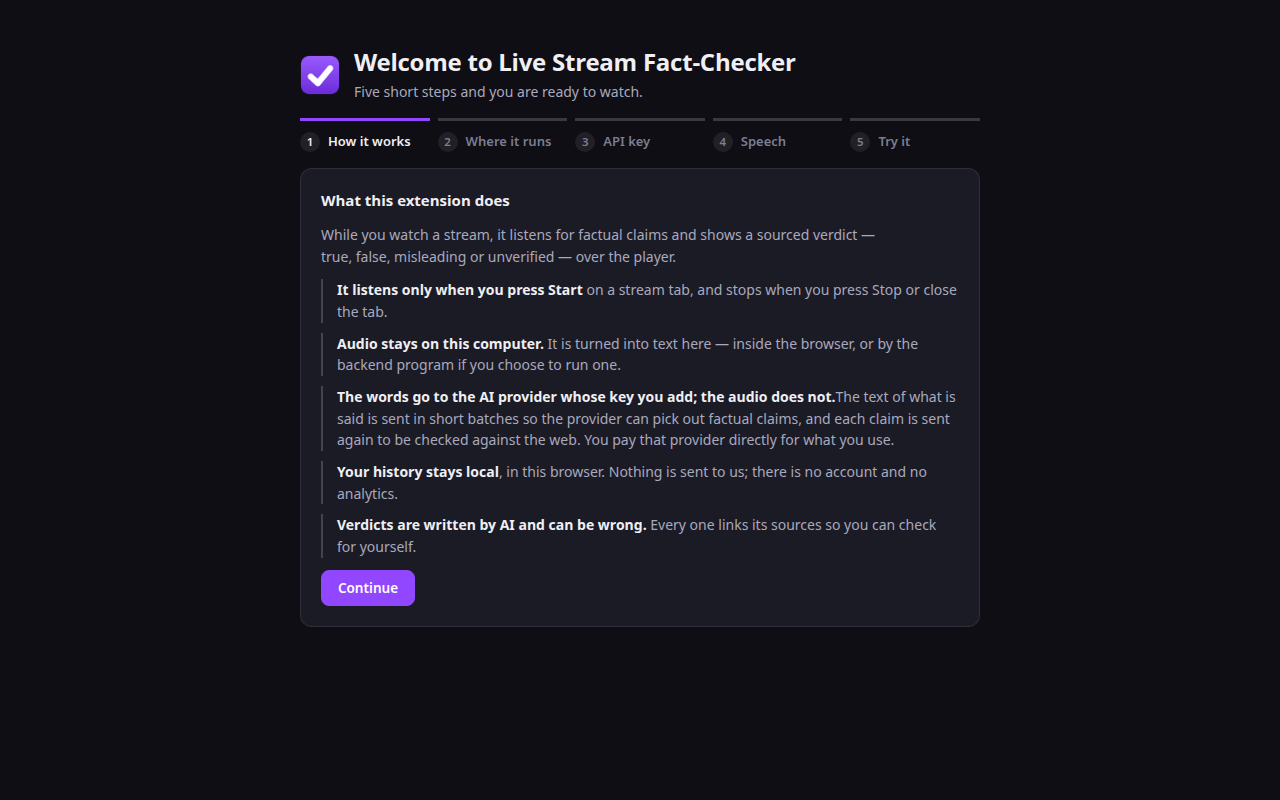
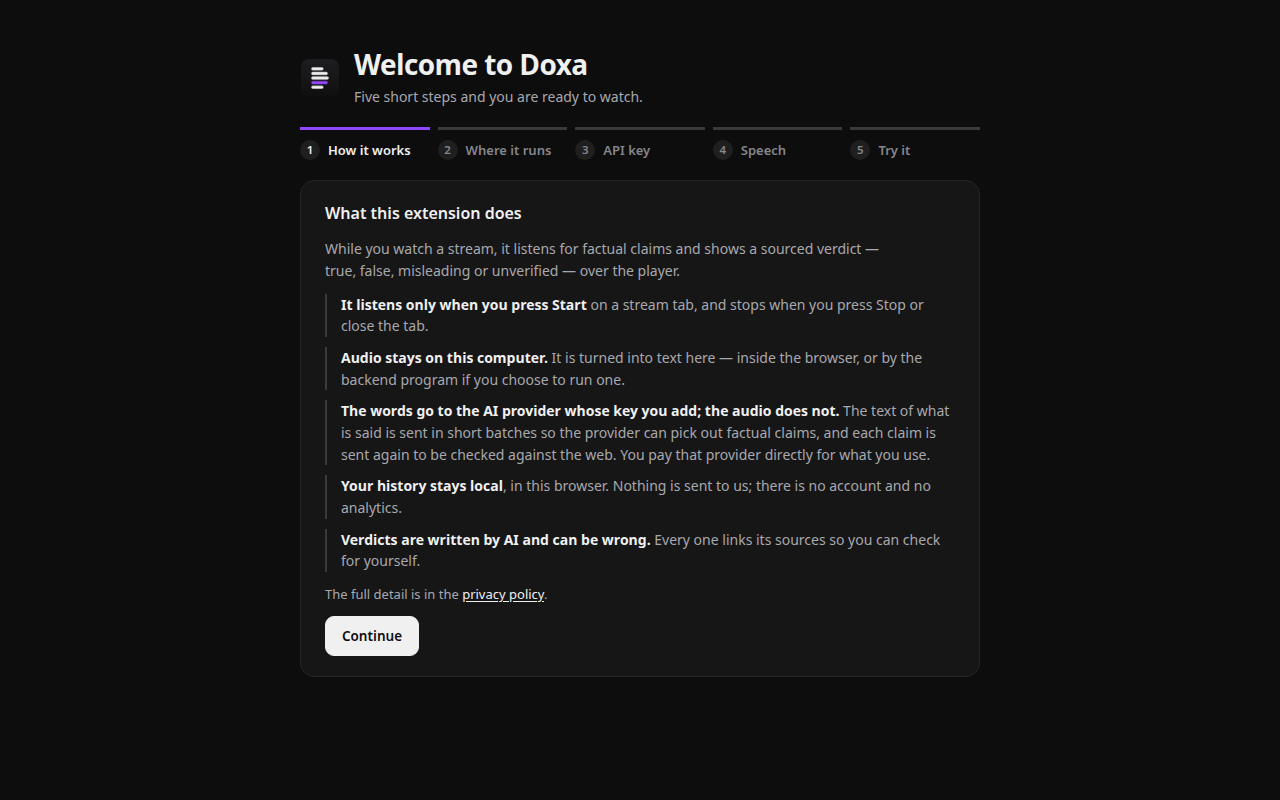
Phase 7: name the product Doxa in docs, backend and store files
- README: Doxa title; the intro and quickstart start with the extension on its
  own, and the local backend becomes an optional section.
- Privacy policy, store listing and checklist say Doxa. The listing describes
  OpenAI and Gemini as a preview, and the alarms justification covers releasing
  the speech model after the warm period.
- Backend: API and streamer titles, start-up banner, analytics, console and
  overlay pages, and the OpenRouter app title say Doxa.
- Store package is dist/doxa-chrome-<version>.zip; history exports are named
  doxa-history-*. The export's format field is unchanged.
- Store images regenerated; the promo tile uses the mark and the doxa wordmark.
- Welcome flow: two missing spaces after inline tags fixed.
- Release plan: Phase 7 built except the Edge run (Edge not installed).

Changed region(s): [[0.2188, 0.0625, 0.75, 0.8438], [0.5625, 0.125, 0.75, 0.2188]]

diff --git a/backend/app/static/dashboard.html b/backend/app/static/dashboard.html
@@ -4,7 +4,7 @@
 <meta charset="utf-8">
 <meta name="viewport" content="width=device-width, initial-scale=1">
 <meta name="color-scheme" content="light dark">
-<title>Fact-Checker Analytics</title>
+<title>Doxa analytics</title>
 <style>
   /* Tokens (dataviz reference palette): light on :root, dark via media query.
      Served locally same-origin by FastAPI — no external assets. */
@@ -187,7 +187,7 @@
 </head>
 <body>
 <header>
-  <h1>Fact-Checker Analytics</h1>
+  <h1>Doxa analytics</h1>
   <span id="refreshed"></span>
 </header>
 <div id="error-banner"></div>

diff --git a/extension/content/overlay.js b/extension/content/overlay.js
@@ -470,7 +470,7 @@ class FactCheckOverlay {
     const fatal = Boolean(errorFrame.fatal);
     const text = fatal
       ? `Fact-checking stopped: ${friendlyCopy ?? fallbackCopy}`
-      : friendlyCopy ?? `Fact-checker: ${fallbackCopy}`;
+      : friendlyCopy ?? `Doxa: ${fallbackCopy}`;
     const notice = this.#refs.notice;
     notice.textContent = text;
     if (fatal) {

diff --git a/backend/streamer/static/console.html b/backend/streamer/static/console.html
@@ -19,7 +19,7 @@
 <head>
 <meta charset="utf-8">
 <meta name="viewport" content="width=device-width, initial-scale=1">
-<title>Fact-Checker</title>
+<title>Doxa streamer console</title>
 <link rel="stylesheet" href="/static/css/fonts.css">
 <link rel="stylesheet" href="/static/css/nocturne.css">
 <link rel="stylesheet" href="/static/css/app.css">

diff --git a/backend/streamer/static/overlay.html b/backend/streamer/static/overlay.html
@@ -28,7 +28,7 @@
 <html lang="en">
 <head>
 <meta charset="utf-8">
-<title>Fact-check overlay</title>
+<title>Doxa overlay</title>
 <link rel="stylesheet" href="/static/css/fonts.css">
 <link rel="stylesheet" href="/static/css/overlay.css">
 <script type="importmap">

diff --git a/scripts/build_extension.py b/scripts/build_extension.py
@@ -7,7 +7,7 @@ local backend's addresses granted up front. A store package needs something
 cleaner, so this script derives the store manifest from it, copies the files
 a release needs, checks the result, and zips it.
 
-    dist/chrome/     + dist/live-stream-fact-checker-chrome-<version>.zip
+    dist/chrome/     + dist/doxa-chrome-<version>.zip
 
 What changes in the store manifest:
 
@@ -51,7 +51,7 @@ from typing import Any
 REPO_ROOT = Path(__file__).resolve().parent.parent
 EXTENSION_DIR = REPO_ROOT / "extension"
 DEFAULT_OUT_DIR = REPO_ROOT / "dist"
-PACKAGE_STEM = "live-stream-fact-checker"
+PACKAGE_STEM = "doxa"
 #: The package directory under ``dist/`` and the browser in the zip's name.
 #: One package serves every Chromium browser.
 PACKAGE_TARGET = "chrome"

diff --git a/backend/app/main.py b/backend/app/main.py
@@ -176,7 +176,7 @@ async def lifespan(app: FastAPI) -> AsyncIterator[None]:
     ]
     logger.info(
         "\n%s",
-        banner(rows, f"Live Stream Fact-Checker backend {SERVER_VERSION}"),
+        banner(rows, f"Doxa backend {SERVER_VERSION}"),
     )
     if not configured:
         logger.warning(
@@ -220,7 +220,7 @@ async def lifespan(app: FastAPI) -> AsyncIterator[None]:
 def create_app() -> FastAPI:
     """Assemble the FastAPI application (factory keeps tests self-contained)."""
     app = FastAPI(
-        title="Twitch Live Fact-Checker",
+        title="Doxa backend",
         version=SERVER_VERSION,
         lifespan=lifespan,
     )

diff --git a/backend/app/llm_openrouter.py b/backend/app/llm_openrouter.py
@@ -103,7 +103,7 @@ OPENROUTER_BASE_URL = "https://openrouter.ai/api/v1"
 # client instead of per-call extra_headers.
 ATTRIBUTION_HEADERS: dict[str, str] = {
     "HTTP-Referer": "https://github.com/local/twitch-fact-checker",
-    "X-OpenRouter-Title": "Twitch Fact-Checker",
+    "X-OpenRouter-Title": "Doxa",
 }
 
 CONNECT_TIMEOUT_S = 3.0

diff --git a/backend/streamer/main.py b/backend/streamer/main.py
@@ -225,7 +225,7 @@ async def _token_refresh_loop(app: FastAPI) -> None:
 
 def create_app() -> FastAPI:
     application = FastAPI(
-        title="Live Stream Fact-Checker — streamer",
+        title="Doxa streamer backend",
         version=STREAMER_VERSION,
         lifespan=lifespan,
     )

diff --git a/backend/app/__init__.py b/backend/app/__init__.py
@@ -1,1 +1,1 @@
-"""Twitch Live Fact-Checker backend package."""
+"""Doxa backend package: the optional local engine for the Doxa extension."""

diff --git a/README.md b/README.md
@@ -1,81 +1,100 @@
-# Live Stream Fact-Checker
+# Doxa
 
-A Chrome extension (Manifest V3, named **"Live Stream Fact-Checker"**) plus a local
-Python backend that fact-checks a live stream in real time. Supported sites: **Twitch,
-YouTube (watch pages and live), Kick, and Rumble**. The extension captures the tab's
-audio and streams it to a local FastAPI server, which transcribes it (with
-`faster-whisper`, or NVIDIA Parakeet on a GPU), extracts verifiable claims with an
-LLM "claim gate", verifies them with a web-search-grounded LLM call, and pushes
-**TRUE / FALSE / MISLEADING / UNVERIFIED** verdicts (with sources) back to a
-Shadow-DOM overlay rendered over the player.
+**Doxa** fact-checks a live stream while you watch it. It is a Chrome extension
+(Manifest V3; Chrome, Edge and other Chromium browsers) for **Twitch, YouTube (watch
+pages and live), Kick, and Rumble**: it listens to the stream tab, picks out checkable
+claims, checks each one against the web, and shows **TRUE / FALSE / MISLEADING /
+UNVERIFIED** verdicts, with sources, in a Shadow-DOM overlay over the player.
 
-The LLM layer runs on the **Anthropic API** by default (Claude Haiku 5.5, with
-Anthropic's own `web_search` tool for grounding — sign in with `ant auth login`, no key
-needed), or on **OpenRouter** (one key, any model, the `web` search plugin); the claim
-gate can optionally run on a local **Ollama** model. Connect a provider in the
-extension's app, which opens in a new tab when you install it — no file editing
-needed.
+By default everything runs inside the extension ("This browser"): speech is turned
+into text by a model on your own computer, and claims are found and checked by the AI
+provider whose API key you add (OpenRouter or Anthropic; OpenAI and Google Gemini are
+offered as a preview). An optional **local backend** (Python, FastAPI) does the same
+work on your machine with extra features: transcription with `faster-whisper` or
+NVIDIA Parakeet on a GPU, the **Anthropic API** by default (Claude Haiku 5.5 with
+Anthropic's own `web_search` tool — sign in with `ant auth login`, no key needed) or
+**OpenRouter**, an optional local **Ollama** model for claim detection, contradiction
+alerts and a streamer mode. Either way you connect a provider in the extension's app,
+which opens in a new tab when you install it — no file editing needed.
 
 ## Quickstart
 
-1. **Start the backend.** Only needed for the extension's "local backend" mode; with
-   "This browser" (the default for a new install) there is nothing to start.
-
-   Without cloning anything, with [uv](https://docs.astral.sh/uv/) installed:
+1. **Load the extension** in Chrome 116+ or another Chromium browser (Edge, Brave).
+   From a copy of the project, first fetch the in-browser speech runtime once:
 
    ```bash
-   uvx --from 'git+https://github.com/aajayi-21/Twitch-Fact-Checker#subdirectory=backend' doxa
+   python scripts/vendor_stt_runtime.py
    ```
 
-   This installs no speech engine, so the extension transcribes in the browser and sends
-   the backend text. To transcribe on this computer instead, install the `stt` extra
-   (adds about 200 MB; the first start then downloads a ~170 MB speech model):
-
-   ```bash
-   uvx --from 'doxa-backend[stt] @ git+https://github.com/aajayi-21/Twitch-Fact-Checker#subdirectory=backend' doxa
-   ```
-
-   An installed backend keeps its settings and history in your user data folder
-   (`~/.local/share/doxa` on Linux, `~/Library/Application Support/doxa` on macOS,
-   `%LOCALAPPDATA%\doxa` on Windows; `DOXA_DATA_DIR` overrides it) and prints the
-   path when it starts. Add `--refresh` to pick up a newer version. `doxa-streamer`
-   starts the streamer backend the same way.
-
-   From a copy of the project (needs Python 3.11+; installs the speech engine and
-   keeps settings in `backend/.env`):
-
-   ```bash
-   ./backend/run.sh
-   ```
-
-   Either way the server starts key-less in a "needs setup" state — the extension will
-   walk you through adding a key.
-
-2. **Load the extension** in Chrome 116+ or another Chromium browser (Edge, Brave):
-   open `chrome://extensions/`, enable **Developer mode** (top right), click
+   Then open `chrome://extensions/`, enable **Developer mode** (top right), click
    **Load unpacked**, and select `extension/`. Firefox is not supported: it has
    neither `tabCapture` nor offscreen documents.
 
-3. **Connect your AI provider**: the extension opens a welcome tab the first time
-   it is installed and walks you through it. To get back to it later, click the
-   toolbar icon → **Open dashboard** → **AI provider**. Then either:
-   - **Anthropic** (default): paste a key from
-     https://platform.claude.com/settings/keys → **Save and check key**.
-   - **OpenRouter**: paste your key (https://openrouter.ai/keys — hold a few
-     dollars of credit for web search) → **Save and check key**.
+2. **Follow the welcome tab** that opens: agree → **This browser** → paste an API key
+   from OpenRouter (https://openrouter.ai/keys — hold a few dollars of credit for web
+   search) or Anthropic (https://platform.claude.com/settings/keys) → download and test
+   a speech model → run the sample check. No key yet? Skip that step and play the
+   recorded example instead. To get back to it later, click the toolbar icon → **Open
+   dashboard** → **AI provider**.
 
-   Credentials are validated live against the provider; a key is stored only in
-   `backend/.env` on your machine, never in the browser.
+3. **Open a stream** on a supported site, click the toolbar icon, and press **Start**.
 
-   *Already use the [Anthropic CLI](https://platform.claude.com/docs/en/cli-sdks-libraries/cli/quickstart)?*
-   If you have run `ant auth login`, the backend picks that sign-in up by itself when
-   no key is stored — there is nothing to paste. To switch back to it from a stored
-   key, open **AI provider → Advanced → Use the sign-in instead of a key**.
+That's it: nothing else to install. See [Usage](#usage) for details, and
+[Running it with no backend](#running-it-with-no-backend-browser-engine) for what
+this mode does and costs.
 
-That's it — open a stream on a supported site, click the toolbar icon, and press
-**Start**. See [Usage](#usage) for details.
+### Optional: the local backend
+
+The backend is a program you run on the same computer; choose **Local backend** under
+**AI provider → Where it runs** to use it. It adds GPU transcription, the Anthropic
+sign-in, Ollama, contradiction alerts and streamer mode.
+
+Without cloning anything, with [uv](https://docs.astral.sh/uv/) installed:
+
+```bash
+uvx --from 'git+https://github.com/aajayi-21/Twitch-Fact-Checker#subdirectory=backend' doxa
+```
+
+This installs no speech engine, so the extension transcribes in the browser and sends
+the backend text. To transcribe on this computer instead, install the `stt` extra
+(adds about 200 MB; the first start then downloads a ~170 MB speech model):
+
+```bash
+uvx --from 'doxa-backend[stt] @ git+https://github.com/aajayi-21/Twitch-Fact-Checker#subdirectory=backend' doxa
+```
+
+An installed backend keeps its settings and history in your user data folder
+(`~/.local/share/doxa` on Linux, `~/Library/Application Support/doxa` on macOS,
+`%LOCALAPPDATA%\doxa` on Windows; `DOXA_DATA_DIR` overrides it) and prints the path
+when it starts. Add `--refresh` to pick up a newer version. `doxa-streamer` starts the
+streamer backend the same way.
+
+From a copy of the project (needs Python 3.11+; installs the speech engine and keeps
+settings in `backend/.env`):
+
+```bash
+./backend/run.sh
+```
+
+Either way the server starts key-less in a "needs setup" state, and the extension's
+**AI provider** screen walks you through connecting it:
+
+- **Anthropic** (the backend's default): paste a key → **Save and check key**.
+- **OpenRouter**: paste your key → **Save and check key**.
+
+Credentials are validated live against the provider; a backend key is stored only in
+the backend's settings file on your machine, never in the browser.
+
+*Already use the [Anthropic CLI](https://platform.claude.com/docs/en/cli-sdks-libraries/cli/quickstart)?*
+If you have run `ant auth login`, the backend picks that sign-in up by itself when no
+key is stored — there is nothing to paste. To switch back to it from a stored key,
+open **AI provider → Advanced → Use the sign-in instead of a key**.
 
 ## Architecture
+
+The diagram shows the local backend mode. With "This browser", the offscreen document
+also runs the speech model and calls the AI provider itself; see
+[Running it with no backend](#running-it-with-no-backend-browser-engine).
 
 ```
 Chrome (extension)                              Local backend (127.0.0.1:8710)

diff --git a/docs/store/listing.md b/docs/store/listing.md
@@ -4,7 +4,7 @@
 > the material for when the owner decides to go ahead.
 
 Everything the Developer Dashboard asks for, ready to paste. Where a field has a length
-limit, the text here is inside it. The upload itself is `dist/live-stream-fact-checker-chrome-<version>.zip`
+limit, the text here is inside it. The upload itself is `dist/doxa-chrome-<version>.zip`
 from `python scripts/build_extension.py`; the steps are in
 [`submission-checklist.md`](submission-checklist.md).
 
@@ -12,7 +12,7 @@ from `python scripts/build_extension.py`; the steps are in
 
 **Name** (75 max) — from the manifest:
 
-> Live Stream Fact-Checker
+> Doxa: Live Stream Fact-Checker
 
 **Summary** (132 max) — from the manifest `description`:
 
@@ -24,10 +24,10 @@ from `python scripts/build_extension.py`; the steps are in
 
 **Detailed description:**
 
-> Watching a stream where someone states "facts" at speed? Live Stream Fact-Checker
-> listens along with you and, when a checkable claim is made, puts a small card over the
-> player: TRUE, FALSE, MISLEADING or UNVERIFIED, with a two-sentence explanation and
-> links to the sources it used.
+> Watching a stream where someone states "facts" at speed? Doxa listens along with you
+> and, when a checkable claim is made, puts a small card over the player: TRUE, FALSE,
+> MISLEADING or UNVERIFIED, with a two-sentence explanation and links to the sources it
+> used.
 >
 > It is a referee, not an oracle. Every verdict shows its sources so you can check it
 > yourself. When the evidence is thin, it says UNVERIFIED rather than guess. Opinions,
@@ -38,9 +38,9 @@ from `python scripts/build_extension.py`; the steps are in
 >   between Start and Stop.
 > • The audio is turned into text on your own computer, by a speech model that runs
 >   inside the browser. The audio never leaves your machine.
-> • The text is sent to the AI provider whose API key you add — OpenRouter, Anthropic,
->   OpenAI or Google Gemini — which picks out factual claims and checks each one against
->   the web.
+> • The text is sent to the AI provider whose API key you add — OpenRouter or Anthropic,
+>   with OpenAI and Google Gemini offered as a preview — which picks out factual claims
+>   and checks each one against the web.
 > • Verdicts appear over the player and are saved to a history only you can see.
 >
 > WHAT YOU NEED
@@ -99,7 +99,7 @@ package; `scripts/build_extension.py` fails if the manifest and its list ever di
 | `storage` | Saves the user's settings, their API key(s), and the state of the current session. |
 | `unlimitedStorage` | The user's history of results is kept locally in IndexedDB, and the speech model (63–455 MB) is cached locally so it is downloaded only once. Both would otherwise be evicted under the default quota. |
 | `activeTab` | When the user clicks the toolbar button on a stream tab, reads that tab's address and title to label the session in the user's local history. |
-| `alarms` | Runs a once-a-day local clean-up that deletes history older than the period the user chose. |
+| `alarms` | Runs a once-a-day local clean-up that deletes history older than the period the user chose, and frees the speech model from memory ten minutes after the last session ends (a service worker's own timers do not survive it being suspended). |
 | `scripting` | When the user presses Start on a stream tab that was already open before the extension was installed or updated, adds the extension's own verdict overlay to that tab (the same files the manifest's content scripts load). It runs only on the supported stream sites, only on the tab the user started, and injects nothing but the extension's packaged files. |
 | Content scripts on `twitch.tv`, `youtube.com`, `kick.com`, `rumble.com` | Draws the verdict overlay inside the video player on the four supported sites, pauses checking during ad breaks, and reads the channel shown with the player to label the user's local history. No other site is touched. |
 | `https://generativelanguage.googleapis.com/*` (optional) | Requested only if the user adds a Google Gemini API key. Needed to send claim text to the Gemini API, which does not accept cross-origin requests otherwise. |

diff --git a/docs/release-build-plan.md b/docs/release-build-plan.md
@@ -50,7 +50,7 @@ Fixes with one obvious answer were not asked about and are planned directly.
 | 4 | Streamer bot safety fix ✅ | half a day | — |
 | 5 | Provider live runs: DeepSeek, OpenAI, Gemini ◐ | 1 day | 0, 2; **your OpenAI and Gemini keys** |
 | 6 | Backend one-command install ✅ | 2 days | 1 |
-| 7 | Naming, docs, Edge | 1 day | 2, 3 |
+| 7 | Naming, docs, Edge ◐ | 1 day | 2, 3 |
 | 8 | Real-stream validation week | 1 week (calendar) | 1–7 |
 | 9 | Owner steps and submission | yours | 8; **licence** |
 
@@ -409,7 +409,7 @@ name, already measured at the gate) and record why here.
 
 ---
 
-## 9. Phase 6 — Backend one-command install
+## 9. Phase 6 — Backend one-command install ✅
 
 **Built 2026-11-16** on branch `feat/one-command-install`. Differences from the plan
 below:
@@ -471,7 +471,31 @@ verdict, and a restart keeps the key.
 
 ---
 
-## 10. Phase 7 — Naming, docs, Edge
+## 10. Phase 7 — Naming, docs, Edge ◐
+
+**Built 2026-11-16** on branch `feat/doxa-naming`, except the Edge run:
+
+- **Renamed to Doxa:** README (title, and an intro and quickstart that now start with
+  the extension alone, the backend as an option), privacy policy, store listing and
+  checklist, the backend's API and console titles and start-up banner, the analytics,
+  streamer console and OBS overlay pages, the OpenRouter app title the backend sends,
+  the overlay's error prefix, the welcome flow's provider step and the history export
+  filename (`doxa-history-….json`).
+- **Kept on purpose:** the export file's `format` field
+  (`live-stream-fact-checker-export`, so files exported earlier stay recognisable), the
+  overlay's DOM id, the `[fact-checker]` console prefixes, the `fact-checker-ingest`
+  command, the streamer bot's chat wording ("Automated fact-checker"), and the
+  repository name.
+- **Package:** `dist/doxa-chrome-<version>.zip`.
+- **Listing:** the name matches the manifest; OpenAI and Gemini are described as a
+  preview, since their live runs were deferred; the `alarms` justification now covers
+  releasing the speech model ten minutes after the last session. "Open source" is
+  still left out.
+- **Store images** regenerated from the current extension; the promo tile carries the
+  mark and the "doxa" wordmark on graphite, purple only as the accent. Two missing
+  spaces in the welcome flow showed up in the screenshots and were fixed.
+- **Edge: not yet run.** Microsoft Edge is not installed on the build machine.
+- **Trademark search:** still the owner's call.
 
 - **Doxa everywhere user-facing.** The manifest says "Doxa: Live Stream Fact-Checker", but
   `docs/store/listing.md`, `docs/privacy-policy.md`, `README.md`, the backend page titles
